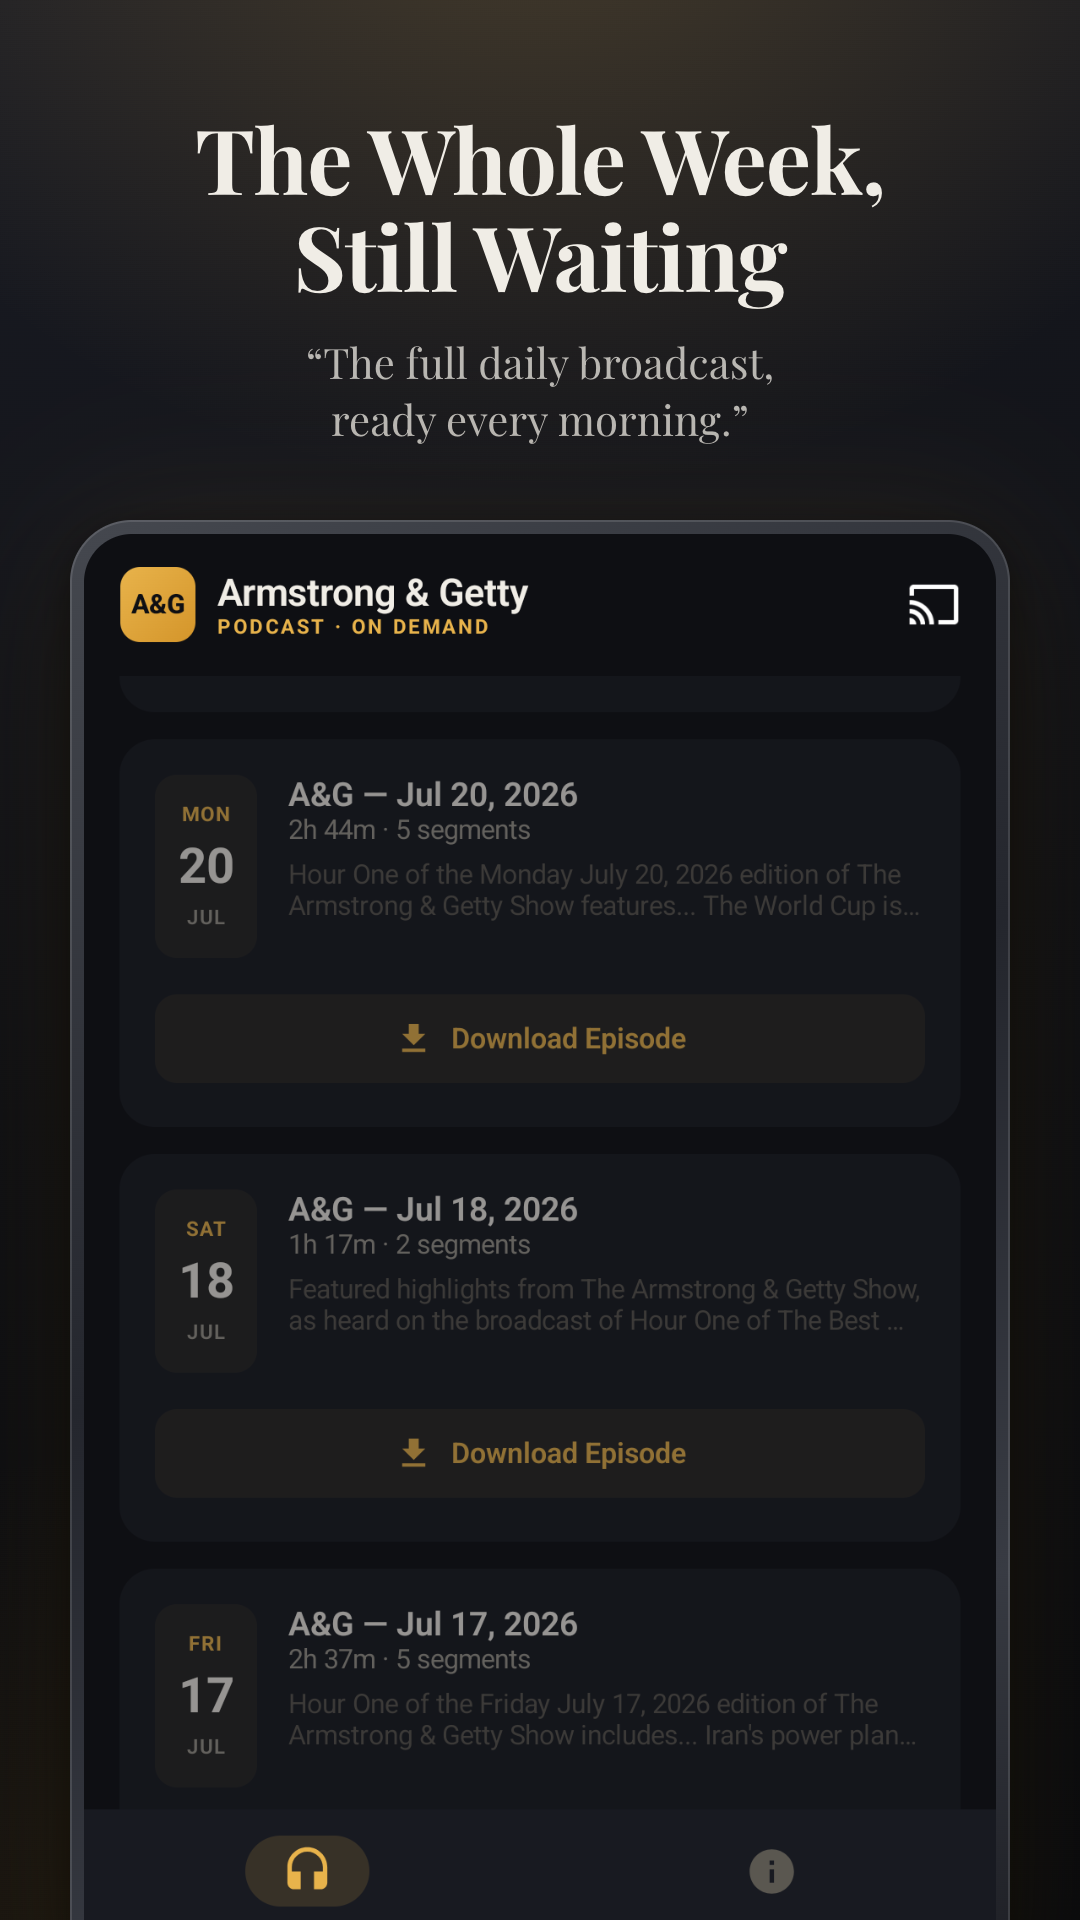
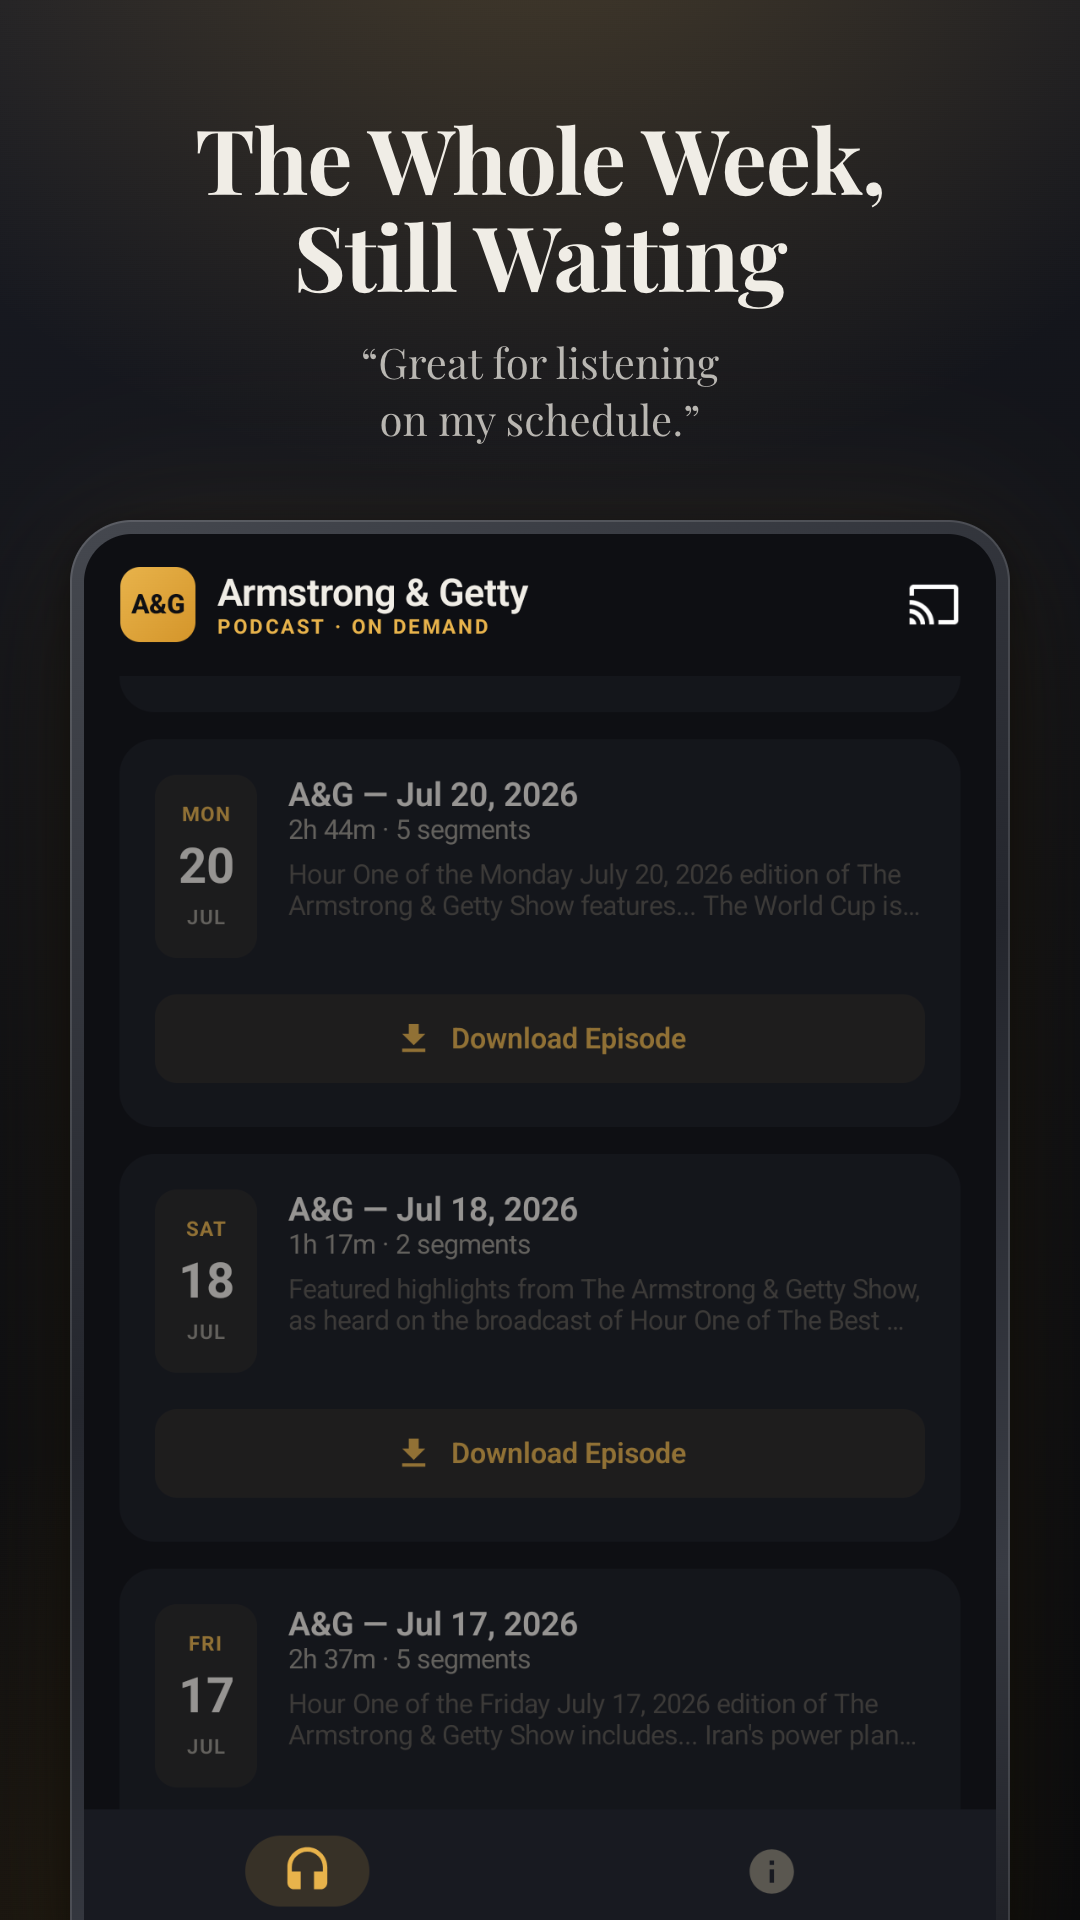
Recaption store slides 06 and 08 without rebuilding the captures
Slide 06's "ready every morning" was inaccurate (the full show day isn't
posted until late morning PT) and slide 08 echoed the show's official
tagline and said "No ads". Swap in other verbatim excerpts from the real
review pool and an unofficial-signalling headline ("Made By A Fan, For
The Fans"). The review-wall slides on the App Store are unchanged.

The raw device captures were no longer on disk, so add --recaption: it
re-renders only the caption band above the device and pastes it onto
the existing PNG. On an unchanged slide the result was pixel-identical.
Shipped to the App Store with the 1.0.2 (61) resubmission.

Changed region(s): [[0.3056, 0.1875, 0.7028, 0.25]]

diff --git a/docs/promo-screenshots.md b/docs/promo-screenshots.md
@@ -27,7 +27,22 @@ builder flattens after rendering, then re-reads each file to assert dimensions
 and channel count. `contact-sheet-<profile>.jpg` is regenerated beside each set
 on every full run.
 
-Flags: `--profile=android-phone`, `--only=04`, `--batch=ag-M-D-YY`.
+Flags: `--profile=android-phone`, `--only=04`, `--batch=ag-M-D-YY`, `--recaption`.
+
+**Copy-only changes without the raw captures: `--recaption`.** The raw
+captures are working files and are not kept in git, so they may be gone by the
+time a caption needs fixing (the `ag-8-22-26` batch was, in Oct 2026). With
+`--recaption --only=<id>` the builder renders the slide with a same-size
+placeholder device and pastes only the caption band (rows above `deviceTop`)
+onto the existing output PNG; the real app capture below is untouched. Checked
+on an unchanged slide: the result was pixel-identical to the original (max
+channel delta 1). Feature slides only; use `--only` one slide id at a time.
+
+**Captions are real review excerpts.** Each `quote` must be a verbatim excerpt
+of a real supplied review (the full pool is in the pre-`d2844c8` version of the
+builder). To change what a caption says, pick a different verbatim excerpt —
+never reword a quote. Headlines are our own copy and must not echo the show's
+official tagline or imply affiliation.
 
 ## Capturing the raw sources
 
